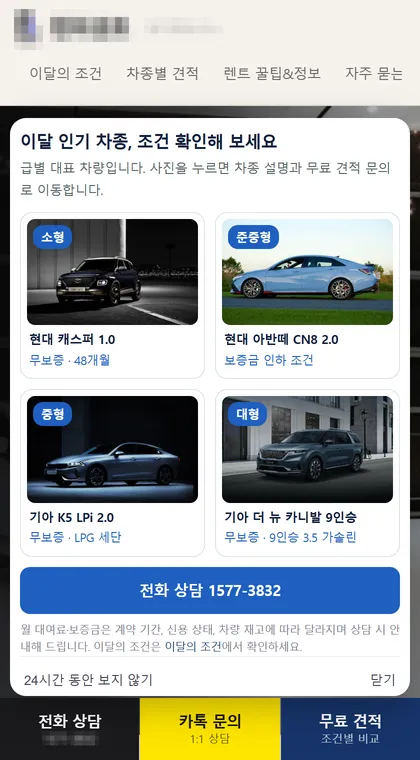
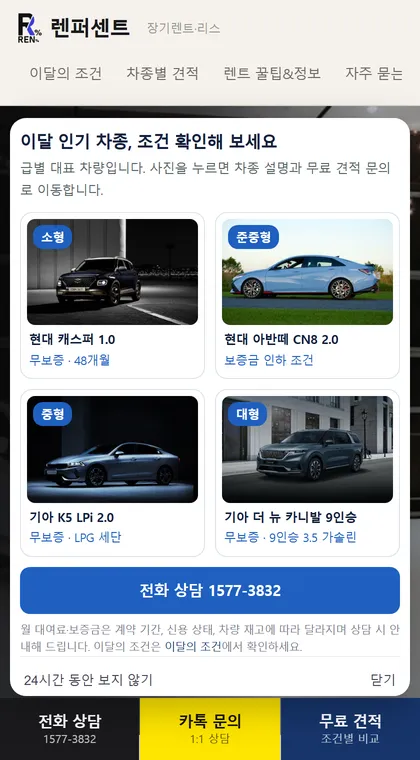
home: 통합 관리 22곳→144곳, 레퍼런스 배지 삭제·카드 자동 흐름+끌기, 자체 브랜드 3곳(렌퍼센트·상당원·샵플러스) 표기

Changed region(s): [[0.031, 0.0, 0.3095, 0.0605], [0.3405, 0.0303, 0.5262, 0.0605], [0.0929, 0.9684, 0.2476, 0.9987]]

diff --git a/index.html b/index.html
@@ -295,7 +295,7 @@
 .refs .count{display:inline-flex;align-items:baseline;gap:6px;background:var(--card);border:1px solid var(--line);border-radius:999px;padding:8px 16px;box-shadow:var(--shadow);margin:0 0 28px}
 .refs .count b{font-size:22px;color:var(--blue);letter-spacing:-.02em}
 .refs .count span{color:var(--sub);font-size:14px}
-.ref-row{display:flex;gap:18px;overflow-x:auto;scroll-snap-type:x mandatory;scroll-padding-left:20px;padding:6px 20px 22px;margin:0 -20px;scrollbar-width:none}
+.ref-row{display:flex;gap:18px;overflow-x:auto;padding:6px 20px 22px;margin:0 -20px;scrollbar-width:none}
 .ref-row::-webkit-scrollbar{display:none}
 .ref{flex:0 0 200px;scroll-snap-align:start;text-decoration:none;color:inherit}
 .ref .phone{position:relative;border-radius:30px;padding:9px;background:#111;box-shadow:0 18px 40px rgba(0,20,60,.18);aspect-ratio:9/17;overflow:hidden}
@@ -369,7 +369,7 @@
 
     <div class="stats">
       <div class="stat"><b>8</b><span>운영 채널</span></div>
-      <div class="stat"><b>22곳</b><span>통합 관리</span></div>
+      <div class="stat"><b>144곳</b><span>통합 관리</span></div>
       <div class="stat"><b>0원</b><span>첫 진단 비용</span></div>
     </div>
   </section>
@@ -406,9 +406,8 @@
     <p class="kicker">실제로 운영 중인 곳</p>
     <h2>업종이 달라도,<br>한 팀이 채널을 맡고 있습니다</h2>
     <p class="lead">법률·노무부터 자동차 매장, 리폼 브랜드까지. 지금 메가헤르츠가 운영하는 화면입니다.</p>
-    <div class="count"><span>메가헤르츠 통합관리</span><b>144곳</b></div>
     <div class="nav"><button type="button" data-d="-1" aria-label="이전 사례">‹</button><button type="button" data-d="1" aria-label="다음 사례">›</button></div>
-    <div class="ref-row"><div class="ref"><div class="phone"><img src="/refassets/ref/law.webp?v=20261029" alt="법무법인 형사·교통 사건 전문 작업 화면" loading="lazy"></div><p class="biz">법무법인</p><p class="what">형사·교통 사건 전문</p><div class="ch"><i>홈페이지</i><i>블로그 2개</i><i>지식iN</i><i>파워링크</i></div></div><div class="ref"><div class="phone"><img src="/refassets/ref/labor.webp?v=20261029" alt="노무법인 산재·직업병 보상 작업 화면" loading="lazy"></div><p class="biz">노무법인</p><p class="what">산재·직업병 보상</p><div class="ch"><i>홈페이지</i><i>블로그</i><i>지식iN</i></div></div><div class="ref"><div class="phone"><img src="/refassets/ref/tint1.webp?v=20261029" alt="썬팅·PPF 매장 테슬라·전기차 전문 작업 화면" loading="lazy"></div><p class="biz">썬팅·PPF 매장</p><p class="what">테슬라·전기차 전문</p><div class="ch"><i>블로그 3개</i><i>클립</i><i>릴스</i><i>플레이스</i></div></div><div class="ref"><div class="phone"><img src="/refassets/ref/reform.webp?v=20261029" alt="주방 리폼 브랜드 싱크대 리폼 작업 화면" loading="lazy"></div><p class="biz">주방 리폼 브랜드</p><p class="what">싱크대 리폼</p><div class="ch"><i>홈페이지 제작</i></div></div><div class="ref"><div class="phone"><img src="/refassets/ref/rent.webp?v=20261029" alt="자동차 장기렌트 차종별 견적 상담 작업 화면" loading="lazy"></div><p class="biz">자동차 장기렌트</p><p class="what">차종별 견적 상담</p><div class="ch"><i>홈페이지</i><i>블로그</i><i>숏폼</i></div></div><div class="ref"><div class="phone"><img src="/refassets/ref/tint2.webp?v=20261029" alt="썬팅·PPF 매장 신차패키지 전문 작업 화면" loading="lazy"></div><p class="biz">썬팅·PPF 매장</p><p class="what">신차패키지 전문</p><div class="ch"><i>숏폼 편집</i><i>인스타</i><i>유튜브</i></div></div><div class="ref"><div class="phone"><img src="/refassets/ref/rental.webp?v=20261029" alt="렌탈 상담 카드단말기·인터넷 작업 화면" loading="lazy"></div><p class="biz">렌탈 상담</p><p class="what">카드단말기·인터넷</p><div class="ch"><i>상담 랜딩</i><i>문의 접수</i></div></div></div>
+    <div class="ref-row"><div class="ref"><div class="phone"><img src="/refassets/ref/law.webp?v=20261029" alt="법무법인 형사·교통 사건 전문 작업 화면" loading="lazy"></div><p class="biz">법무법인</p><p class="what">형사·교통 사건 전문</p><div class="ch"><i>홈페이지</i><i>블로그 2개</i><i>지식iN</i><i>파워링크</i></div></div><div class="ref"><div class="phone"><img src="/refassets/ref/labor.webp?v=20261029" alt="노무법인 산재·직업병 보상 작업 화면" loading="lazy"></div><p class="biz">노무법인</p><p class="what">산재·직업병 보상</p><div class="ch"><i>홈페이지</i><i>블로그</i><i>지식iN</i></div></div><div class="ref"><div class="phone"><img src="/refassets/ref/tint1.webp?v=20261029" alt="썬팅·PPF 매장 테슬라·전기차 전문 작업 화면" loading="lazy"></div><p class="biz">썬팅·PPF 매장</p><p class="what">테슬라·전기차 전문</p><div class="ch"><i>블로그 3개</i><i>클립</i><i>릴스</i><i>플레이스</i></div></div><div class="ref"><div class="phone"><img src="/refassets/ref/reform.webp?v=20261029" alt="주방 리폼 브랜드 싱크대 리폼 작업 화면" loading="lazy"></div><p class="biz">주방 리폼 브랜드</p><p class="what">싱크대 리폼</p><div class="ch"><i>홈페이지 제작</i></div></div><div class="ref"><div class="phone"><img src="/refassets/ref/rent.webp?v=20261029b" alt="렌퍼센트 장기렌트 홈페이지 화면" loading="lazy"></div><p class="biz">렌퍼센트</p><p class="what">자동차 장기렌트·리스</p><div class="ch"><i>홈페이지</i><i>블로그</i><i>숏폼</i></div></div><div class="ref"><div class="phone"><img src="/refassets/ref/tint2.webp?v=20261029" alt="썬팅·PPF 매장 신차패키지 전문 작업 화면" loading="lazy"></div><p class="biz">썬팅·PPF 매장</p><p class="what">신차패키지 전문</p><div class="ch"><i>숏폼 편집</i><i>인스타</i><i>유튜브</i></div></div><div class="ref"><div class="phone"><img src="/refassets/ref/rental.webp?v=20261029b" alt="상당원 소상공인 상담 홈페이지 화면" loading="lazy"></div><p class="biz">상당원</p><p class="what">소상공인 카드단말기·인터넷 상담</p><div class="ch"><i>상담 랜딩</i><i>문의 접수</i></div></div><div class="ref"><div class="phone"><img src="/refassets/ref/shopplus.webp?v=20261029b" alt="샵플러스 매장 통신 상담 홈페이지 화면" loading="lazy"></div><p class="biz">샵플러스</p><p class="what">매장 인터넷·카드단말기·CCTV</p><div class="ch"><i>홈페이지 제작</i><i>상담 랜딩</i></div></div></div>
     <div class="more-cta"><a href="#apply">우리 업종도 가능한지 물어보기 →</a></div>
   </div></section>
 
@@ -438,7 +437,7 @@
     <p class="kicker">왜 메가헤르츠인가요?</p>
     <h2>흩어진 채널을<br>하나로 묶어드립니다</h2>
     <div class="wlist">
-      <div class="wcard"><h3><span class="ck">✓</span> 통합관리 144곳</h3><p>8개 채널을 한 팀이 맡습니다. 업체마다 연락하고 조율하는 시간이 사라집니다.</p></div>
+      <div class="wcard"><h3><span class="ck">✓</span> 통합 관리</h3><p>8개 채널을 한 팀이 맡습니다. 업체마다 연락하고 조율하는 시간이 사라집니다.</p></div>
       <div class="wcard"><h3><span class="ck">✓</span> 실시간 어드민 공개</h3><p>“열심히 했어요”가 아니라, 어느 채널에 뭐가 올라갔는지 전용 어드민에서 실시간으로 직접 확인하세요.</p></div>
       <div class="wcard"><h3><span class="ck">✓</span> 업종 맞춤 경험</h3><p>병·의원, 학원, 전문직, 자영업까지. 업종별로 통하는 콘텐츠를 압니다.</p></div>
       <div class="wcard"><h3><span class="ck">✓</span> 부담 없는 시작</h3><p>첫 진단은 무료, 영상은 첫 편 무료 샘플. 결과를 먼저 보고 결정하세요.</p></div>
@@ -697,15 +696,25 @@
 <script>/*oc-rot-20261008*/(function(){var L=["https://open.kakao.com/o/s109EpRi", "https://open.kakao.com/o/smPqFpRi", "https://open.kakao.com/o/sW2zFpRi", "https://open.kakao.com/o/sSjWFpRi", "https://open.kakao.com/o/s4E9FpRi"];var e='';try{e=(new URLSearchParams(location.search).get('e')||'').trim().toLowerCase();}catch(x){}var k=e?(function(s){var h=0;for(var i=0;i<s.length;i++){h=(h*31+s.charCodeAt(i))%1000003;}return h%L.length;})(e):Math.floor(Math.random()*L.length);var n=L[k];document.querySelectorAll('a[href*="open.kakao.com/o/"]').forEach(function(a){var o=a.getAttribute('href');if(L.indexOf(o)<0)return;a.setAttribute('href',n);if(a.textContent.indexOf(o)>=0)a.textContent=a.textContent.split(o).join(n);});if(window.OFFER_CFG)window.OFFER_CFG.kakao=n;})();</script>
 <script src="/assets/nl-optin.js?v=20261021"></script>
 <script>
-/* 레퍼런스 카드: PC 마우스로 끌어서 넘기기 + 좌우 버튼 (10/29) */
+/* 레퍼런스 카드: 자동으로 천천히 흐르고, 마우스로 끌거나 손가락으로 밀어 넘기기 + 좌우 버튼 (10/29) */
 (function(){var r=document.querySelector('#refs .ref-row');if(!r)return;
-if(matchMedia('(hover:hover) and (pointer:fine)').matches)r.classList.add('drag');
-var down=false,sx=0,sl=0,moved=0;
+var items=[].slice.call(r.children);items.forEach(function(n){var c=n.cloneNode(true);c.setAttribute('aria-hidden','true');r.appendChild(c);});
+var fine=matchMedia('(hover:hover) and (pointer:fine)').matches;if(fine)r.classList.add('drag');
+var still=matchMedia('(prefers-reduced-motion: reduce)').matches;
+var down=false,sx=0,sl=0,moved=0,hold=0,pos=1;
+function half(){return r.scrollWidth/2;}
+function wrap(){var h2=half();if(r.scrollLeft>=h2)r.scrollLeft-=h2;else if(r.scrollLeft<=0)r.scrollLeft+=h2;}
+function tick(t){if(!still&&!down&&Date.now()>hold){var h2=half();pos+=0.45;if(pos>=h2)pos-=h2;r.scrollLeft=pos;}else{pos=r.scrollLeft;}requestAnimationFrame(tick);}
+requestAnimationFrame(tick);
+function pause(ms){hold=Date.now()+ms;}
+r.addEventListener('mouseenter',function(){pause(1e9);});r.addEventListener('mouseleave',function(){pause(600);});
+r.addEventListener('touchstart',function(){pause(1e9);},{passive:true});r.addEventListener('touchend',function(){pause(2500);});
+r.addEventListener('scroll',function(){if(down)return;wrap();},{passive:true});
 r.addEventListener('mousedown',function(e){down=true;moved=0;sx=e.pageX;sl=r.scrollLeft;r.classList.add('down');});
-window.addEventListener('mousemove',function(e){if(!down)return;var dx=e.pageX-sx;moved=Math.max(moved,Math.abs(dx));r.scrollLeft=sl-dx;e.preventDefault();});
-window.addEventListener('mouseup',function(){if(!down)return;down=false;r.classList.remove('down');});
+window.addEventListener('mousemove',function(e){if(!down)return;var dx=e.pageX-sx;moved=Math.max(moved,Math.abs(dx));r.scrollLeft=sl-dx;wrap();e.preventDefault();});
+window.addEventListener('mouseup',function(){if(!down)return;down=false;r.classList.remove('down');pos=r.scrollLeft;});
 r.addEventListener('click',function(e){if(moved>5){e.preventDefault();e.stopPropagation();}},true);
-document.querySelectorAll('#refs .nav button').forEach(function(b){b.addEventListener('click',function(){var c=r.querySelector('.ref');var w=c?c.getBoundingClientRect().width+18:220;r.scrollBy({left:w*(+b.dataset.d),behavior:'smooth'});});});
+document.querySelectorAll('#refs .nav button').forEach(function(b){b.addEventListener('click',function(){var c=r.querySelector('.ref');var w=c?c.getBoundingClientRect().width+18:220;pause(3000);r.scrollBy({left:w*(+b.dataset.d),behavior:'smooth'});});});
 })();
 </script>
 </body>

diff --git a/200.html b/200.html
@@ -333,7 +333,7 @@
 
     <div class="stats">
       <div class="stat"><b>8</b><span>운영 채널</span></div>
-      <div class="stat"><b>22곳</b><span>통합 관리</span></div>
+      <div class="stat"><b>144곳</b><span>통합 관리</span></div>
       <div class="stat"><b>0원</b><span>첫 진단 비용</span></div>
     </div>
   </section>

diff --git a/404.html b/404.html
@@ -266,7 +266,7 @@
 
     <div class="stats">
       <div class="stat"><b>8</b><span>운영 채널</span></div>
-      <div class="stat"><b>22곳</b><span>통합 관리</span></div>
+      <div class="stat"><b>144곳</b><span>통합 관리</span></div>
       <div class="stat"><b>0원</b><span>첫 진단 비용</span></div>
     </div>
   </section>
